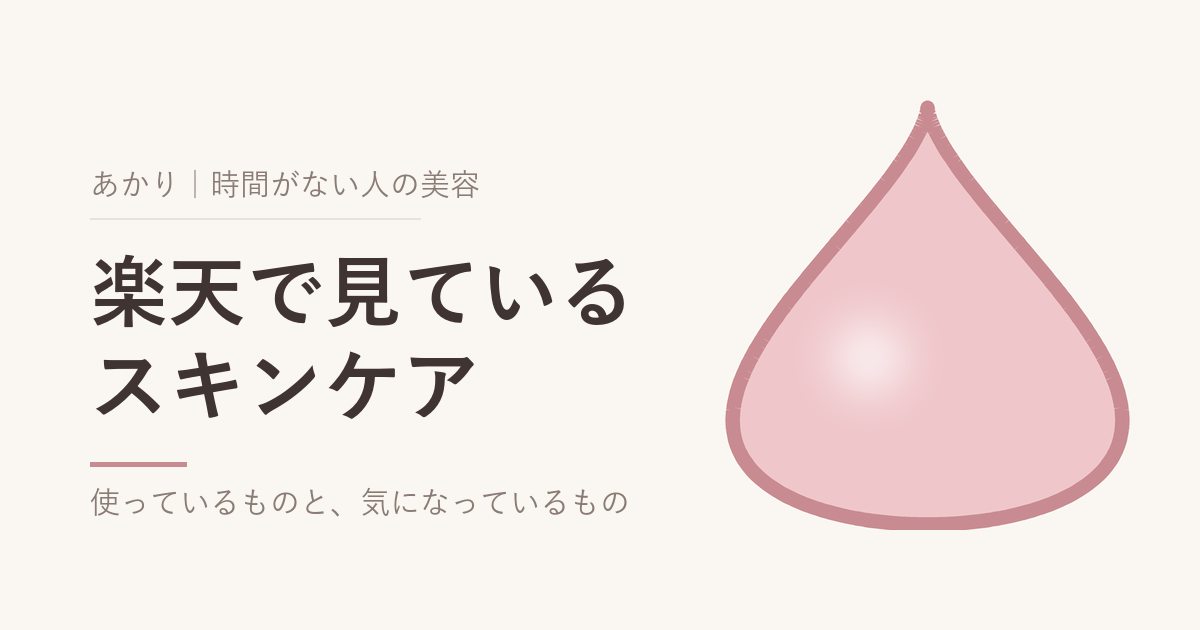
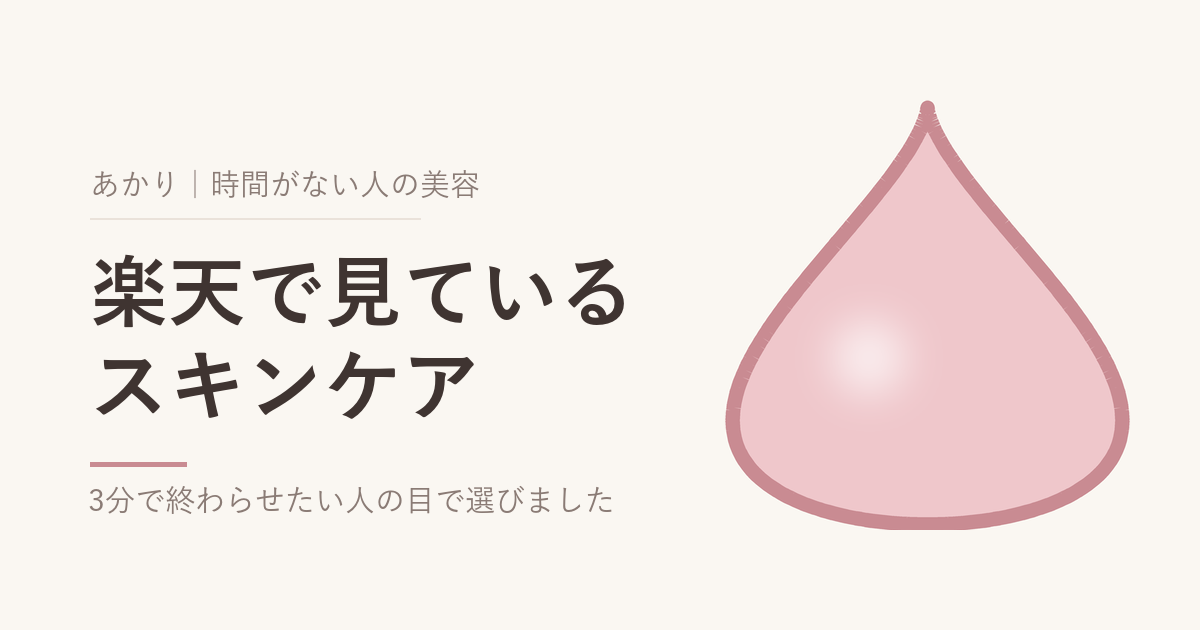
設計書v2に合わせてサイトを直す（使ってる/気になってるの区別を外す）
- 「使ってる」の印4件とリード文の一文を外した（本人決定）
- 商品コメント9か所を、商品ページの事実で書き直した
- 写真が決まりに合わない2件を落とした（17件→15件）
  - MJCARE: モデルの顔が大きく写っている
  - オルナ化粧水: 全4枚に「楽天ランキング第1位」「艶肌」などが焼き込み
- og.pngの「使っているものと、気になっているもの」を描き直し
- 100kin.htmlのROOM紹介文を21件に戻した（17件は誤り）
- レビュー件数4件と日付を11/21に更新

Changed region(s): [[0.0617, 0.754, 0.5242, 0.8143]]

diff --git a/index.html b/index.html
@@ -7,7 +7,7 @@
 <meta property="og:type" content="website">
 <meta property="og:site_name" content="楽天で見ているスキンケア">
 <meta property="og:title" content="楽天で見ているスキンケア">
-<meta property="og:description" content="3分で終わらせたい人の目で選びました。使っているものと、気になっているもの。楽天で見ている17件。">
+<meta property="og:description" content="3分で終わらせたい人の目で選びました。楽天で見ているスキンケア15件。">
 <meta property="og:url" content="https://akari-3min-care.github.io/care/">
 <meta property="og:image" content="https://akari-3min-care.github.io/care/og.png">
 <meta name="twitter:card" content="summary_large_image">
@@ -75,7 +75,7 @@ footer a{color:var(--muted)}
 <div class="hero">
   <div class="who">あかり｜時間がない人の美容</div>
   <h1>楽天で見ているスキンケア</h1>
-  <p class="lead">3分で終わらせたい人の目で選びました。<br><b>種類ごと</b>に分けて、それぞれ楽天市場のレビュー件数が多い順に並べています。<br><b>「使ってる」</b>と付いているのが、今わたしが手元に持っているものです。</p>
+  <p class="lead">3分で終わらせたい人の目で選びました。<br><b>種類ごと</b>に分けて、それぞれ楽天市場のレビュー件数が多い順に並べています。</p>
 
 </div>
 
@@ -98,9 +98,9 @@ footer a{color:var(--muted)}
     <div class="brand">ファンケル</div>
     <div class="name">マイルドクレンジング オイル（つめかえ用）</div>
     <p class="spec"><b>1,870円</b></p>
-    <p class="rev"><span class="star">★ 4.85</span><span>楽天のレビュー 13,657件</span></p>
+    <p class="rev"><span class="star">★ 4.85</span><span>楽天のレビュー 13,658件</span></p>
     <a class="go" href="https://hb.afl.rakuten.co.jp/hgc/g00sms5o.9mernb58.g00sms5o.9merod3a/?pc=https%3A%2F%2Fitem.rakuten.co.jp%2Ffancl-shop%2F3721-32%2F&m=http%3A%2F%2Fm.rakuten.co.jp%2Ffancl-shop%2Fi%2F10009421%2F&rafcid=wsc_i_is_d6ca3db3-7718-4ca9-9b12-793de0ae759e" rel="nofollow sponsored noopener" target="_blank">楽天市場で見る</a>
-    <p class="why">このページでレビューがいちばん多い商品です。つめかえ用なので、続けるならこの形が好きです</p>
+    <p class="why">このページでレビューがいちばん多い商品です。115mLでおよそ57回分、2プッシュが目安です</p>
   </div>
 </div>
 <div class="band">洗顔<span class="n">2</span></div>
@@ -110,9 +110,9 @@ footer a{color:var(--muted)}
     <div class="brand">ファンケル</div>
     <div class="name">洗顔パウダー</div>
     <p class="spec"><b>1,320円</b></p>
-    <p class="rev"><span class="star">★ 4.79</span><span>楽天のレビュー 2,938件</span></p>
+    <p class="rev"><span class="star">★ 4.79</span><span>楽天のレビュー 2,939件</span></p>
     <a class="go" href="https://hb.afl.rakuten.co.jp/hgc/g00sms5o.9mernb58.g00sms5o.9merod3a/?pc=https%3A%2F%2Fitem.rakuten.co.jp%2Ffancl-shop%2F3670-11%2F&m=http%3A%2F%2Fm.rakuten.co.jp%2Ffancl-shop%2Fi%2F10009026%2F&rafcid=wsc_i_is_d6ca3db3-7718-4ca9-9b12-793de0ae759e" rel="nofollow sponsored noopener" target="_blank">楽天市場で見る</a>
-    <p class="why">粉タイプ。泡立てネットは100均のを使っているので、合うのか気になっています</p>
+    <p class="why">ティースプーン1杯で、1本およそ60回分。泡立てネットは100均のを使っています</p>
   </div>
 </div>
 <div class="card">
@@ -121,23 +121,12 @@ footer a{color:var(--muted)}
     <div class="brand">アテニア</div>
     <div class="name">コンフォートムースウォッシュ</div>
     <p class="spec"><b>1,430円</b>　ボトル／つめかえ用</p>
-    <p class="rev"><span class="star">★ 4.59</span><span>楽天のレビュー 813件</span></p>
+    <p class="rev"><span class="star">★ 4.59</span><span>楽天のレビュー 814件</span></p>
     <a class="go" href="https://hb.afl.rakuten.co.jp/hgc/g00tna6o.9merne6c.g00tna6o.9mero3ea/?pc=https%3A%2F%2Fitem.rakuten.co.jp%2Fattenir%2F116228%2F&m=http%3A%2F%2Fm.rakuten.co.jp%2Fattenir%2Fi%2F10000615%2F&rafcid=wsc_i_is_d6ca3db3-7718-4ca9-9b12-793de0ae759e" rel="nofollow sponsored noopener" target="_blank">楽天市場で見る</a>
-    <p class="why">ワンプッシュで泡が出るタイプ。朝に合いそうだと思って見ています</p>
+    <p class="why">ワンプッシュで泡が出るタイプ。2〜3プッシュで1回分です。泡立てる時間がない朝に</p>
   </div>
 </div>
-<div class="band">化粧水<span class="n">3</span></div>
-<div class="card">
-  <img src="https://thumbnail.image.rakuten.co.jp/@0_mall/tsurunishi/cabinet/allna/14069354/905b01mtmmcmf_1.jpg?_ex=300x300" alt="保湿化粧水 200ml">
-  <div class="body">
-    <div class="brand">オルナ オーガニック</div>
-    <div class="name">保湿化粧水 200ml<span class="used">使ってる</span></div>
-    <p class="spec"><b>2,300円</b></p>
-    <p class="rev"><span class="star">★ 4.58</span><span>楽天のレビュー 1,948件</span></p>
-    <a class="go" href="https://hb.afl.rakuten.co.jp/hgc/g00t45po.9mern46a.g00t45po.9mero9eb/?pc=https%3A%2F%2Fitem.rakuten.co.jp%2Ftsurunishi%2F905b01mtmmcmf%2F&m=http%3A%2F%2Fm.rakuten.co.jp%2Ftsurunishi%2Fi%2F10000259%2F&rafcid=wsc_i_is_d6ca3db3-7718-4ca9-9b12-793de0ae759e" rel="nofollow sponsored noopener" target="_blank">楽天市場で見る</a>
-    <p class="why">しっとりとさっぱり、季節で入れ替えてる。冬はしっとりのほうを使っています</p>
-  </div>
-</div>
+<div class="band">化粧水<span class="n">2</span></div>
 <div class="card">
   <img src="https://thumbnail.image.rakuten.co.jp/@0_mall/attenir/cabinet/thum/157617_main_2606.jpg?_ex=300x300" alt="プリマモイスト ローション">
   <div class="body">
@@ -146,7 +135,7 @@ footer a{color:var(--muted)}
     <p class="spec"><b>2,255円</b>　ボトル／つめかえ</p>
     <p class="rev"><span class="star">★ 4.74</span><span>楽天のレビュー 1,674件</span></p>
     <a class="go" href="https://hb.afl.rakuten.co.jp/hgc/g00tna6o.9merne6c.g00tna6o.9mero3ea/?pc=https%3A%2F%2Fitem.rakuten.co.jp%2Fattenir%2F157617%2F&m=http%3A%2F%2Fm.rakuten.co.jp%2Fattenir%2Fi%2F10000239%2F&rafcid=wsc_i_is_d6ca3db3-7718-4ca9-9b12-793de0ae759e" rel="nofollow sponsored noopener" target="_blank">楽天市場で見る</a>
-    <p class="why">今のがなくなったら、つめかえがあるものに変えたいと思っていて</p>
+    <p class="why">2〜3プッシュで1回分。この値段はつめかえ用（140mL）のものです</p>
   </div>
 </div>
 <div class="card">
@@ -157,7 +146,7 @@ footer a{color:var(--muted)}
     <p class="spec"><b>1,540円</b></p>
     <p class="rev"><span class="star">★ 4.69</span><span>楽天のレビュー 953件</span></p>
     <a class="go" href="https://hb.afl.rakuten.co.jp/hgc/g00sms5o.9mernb58.g00sms5o.9merod3a/?pc=https%3A%2F%2Fitem.rakuten.co.jp%2Ffancl-shop%2F3742-31%2F&m=http%3A%2F%2Fm.rakuten.co.jp%2Ffancl-shop%2Fi%2F10009885%2F&rafcid=wsc_i_is_d6ca3db3-7718-4ca9-9b12-793de0ae759e" rel="nofollow sponsored noopener" target="_blank">楽天市場で見る</a>
-    <p class="why">開封後の使いきり期間が決まっているタイプ。ちゃんと使い切れるか、そこだけ迷っています</p>
+    <p class="why">30mLでおよそ30日分。100円玉1枚分が目安です。開封後は60日以内に使い切ります</p>
   </div>
 </div>
 <div class="band">乳液<span class="n">1</span></div>
@@ -169,7 +158,7 @@ footer a{color:var(--muted)}
     <p class="spec"><b>1,815円</b>　ボトル／つめかえ</p>
     <p class="rev"><span class="star">★ 4.69</span><span>楽天のレビュー 784件</span></p>
     <a class="go" href="https://hb.afl.rakuten.co.jp/hgc/g00tna6o.9merne6c.g00tna6o.9mero3ea/?pc=https%3A%2F%2Fitem.rakuten.co.jp%2Fattenir%2F157714%2F&m=http%3A%2F%2Fm.rakuten.co.jp%2Fattenir%2Fi%2F10000244%2F&rafcid=wsc_i_is_d6ca3db3-7718-4ca9-9b12-793de0ae759e" rel="nofollow sponsored noopener" target="_blank">楽天市場で見る</a>
-    <p class="why">日中用の乳液です。つめかえがあるのがいいなと思って見ています</p>
+    <p class="why">朝、化粧水のあとに2〜3プッシュ。日中用の乳液です。この値段はつめかえ用（50mL）のものです</p>
   </div>
 </div>
 <div class="band">オールインワン<span class="n">1</span></div>
@@ -177,23 +166,11 @@ footer a{color:var(--muted)}
   <div class="noimg">写真なし</div>
   <div class="body">
     <div class="brand">PICOMONTE</div>
-    <div class="name">オールインワンジェル 180g（ボタニカル）<span class="used">使ってる</span></div>
+    <div class="name">オールインワンジェル 180g（ボタニカル）</div>
     <p class="spec"><b>1,000円</b></p>
     <p class="rev"><span class="star">★ 4.35</span><span>楽天のレビュー 846件</span></p>
     <a class="go" href="https://hb.afl.rakuten.co.jp/hgc/g00r97bo.9mern6d0.g00r97bo.9mero959/?pc=https%3A%2F%2Fitem.rakuten.co.jp%2Fa-cueb%2Fbota-ag%2F&m=http%3A%2F%2Fm.rakuten.co.jp%2Fa-cueb%2Fi%2F10004890%2F&rafcid=wsc_i_is_d6ca3db3-7718-4ca9-9b12-793de0ae759e" rel="nofollow sponsored noopener" target="_blank">楽天市場で見る</a>
     <p class="why">スパチュラを探さなくていいだけで、朝がちがう。ポンプ式にしてから、だいぶ楽になりました</p>
-  </div>
-</div>
-<div class="band">シートマスク<span class="n">1</span></div>
-<div class="card">
-  <img src="https://thumbnail.image.rakuten.co.jp/@0_mall/apm24/cabinet/mjcare/mj_care_20_20sn.jpg?_ex=300x300" alt="エッセンスマスク お試し 20種20枚">
-  <div class="body">
-    <div class="brand">MJCARE</div>
-    <div class="name">エッセンスマスク お試し 20種20枚<span class="used">使ってる</span></div>
-    <p class="spec"><b>1,200円</b>　個包装</p>
-    <p class="rev"><span class="star">★ 4.58</span><span>楽天のレビュー 4,610件</span></p>
-    <a class="go" href="https://hb.afl.rakuten.co.jp/hgc/g00qecio.9mernb62.g00qecio.9mero81e/?pc=https%3A%2F%2Fitem.rakuten.co.jp%2Fapm24%2Fmjst40206n-22-set%2F&m=http%3A%2F%2Fm.rakuten.co.jp%2Fapm24%2Fi%2F10002137%2F&rafcid=wsc_i_is_d6ca3db3-7718-4ca9-9b12-793de0ae759e" rel="nofollow sponsored noopener" target="_blank">楽天市場で見る</a>
-    <p class="why">20種類入ってるから、その日の気分で選べる。選ぶのが面倒な日もあるので、そこは好みが分かれるかも</p>
   </div>
 </div>
 <div class="band">日やけ止め<span class="n">2</span></div>
@@ -203,9 +180,9 @@ footer a{color:var(--muted)}
     <div class="brand">アテニア</div>
     <div class="name">陽断UV50 ブライト&プロテクト クリーム</div>
     <p class="spec"><b>1,980円</b>　SPF50+・PA++++</p>
-    <p class="rev"><span class="star">★ 4.67</span><span>楽天のレビュー 1,086件</span></p>
+    <p class="rev"><span class="star">★ 4.67</span><span>楽天のレビュー 1,087件</span></p>
     <a class="go" href="https://hb.afl.rakuten.co.jp/hgc/g00tna6o.9merne6c.g00tna6o.9mero3ea/?pc=https%3A%2F%2Fitem.rakuten.co.jp%2Fattenir%2F165204%2F&m=http%3A%2F%2Fm.rakuten.co.jp%2Fattenir%2Fi%2F10000284%2F&rafcid=wsc_i_is_d6ca3db3-7718-4ca9-9b12-793de0ae759e" rel="nofollow sponsored noopener" target="_blank">楽天市場で見る</a>
-    <p class="why">1本5役と書いてあって、増やさなくていいのが気になっています</p>
+    <p class="why">朝のお手入れの最後に、パール粒大をひと塗り。40gでおよそ2か月半もちます</p>
   </div>
 </div>
 <div class="card">
@@ -216,7 +193,7 @@ footer a{color:var(--muted)}
     <p class="spec"><b>2,200円</b>　SPF34・PA+++</p>
     <p class="rev"><span class="star">★ 4.59</span><span>楽天のレビュー 183件</span></p>
     <a class="go" href="https://hb.afl.rakuten.co.jp/hgc/g00sms5o.9mernb58.g00sms5o.9merod3a/?pc=https%3A%2F%2Fitem.rakuten.co.jp%2Ffancl-shop%2Fsclasting%2F&m=http%3A%2F%2Fm.rakuten.co.jp%2Ffancl-shop%2Fi%2F10010310%2F&rafcid=wsc_i_is_d6ca3db3-7718-4ca9-9b12-793de0ae759e" rel="nofollow sponsored noopener" target="_blank">楽天市場で見る</a>
-    <p class="why">日やけ止めと化粧下地を兼ねるタイプ。冬は塗るのを忘れがちなので、下地と一緒なら続きそう</p>
+    <p class="why">SPF34・PA+++の化粧下地。日やけ止めのあとに重ねることもできます。2層式なので、よく振ってから</p>
   </div>
 </div>
 <div class="band">フェイスパウダー<span class="n">1</span></div>
@@ -224,7 +201,7 @@ footer a{color:var(--muted)}
   <img src="https://thumbnail.image.rakuten.co.jp/@0_mall/naturalcosmetic/cabinet/silkpowder-mk2.jpg?_ex=300x300" alt="シルク100% フェイスパウダー 7g">
   <div class="body">
     <div class="brand">シルクパウダー</div>
-    <div class="name">シルク100% フェイスパウダー 7g<span class="used">使ってる</span></div>
+    <div class="name">シルク100% フェイスパウダー 7g</div>
     <p class="spec"><b>935円</b></p>
     <p class="rev"><span class="star">★ 4.45</span><span>楽天のレビュー 1,569件</span></p>
     <a class="go" href="https://hb.afl.rakuten.co.jp/hgc/g00ps7eo.9mernea9.g00ps7eo.9mero577/?pc=https%3A%2F%2Fitem.rakuten.co.jp%2Fnaturalcosmetic%2Fsilkpowder20%2F&m=http%3A%2F%2Fm.rakuten.co.jp%2Fnaturalcosmetic%2Fi%2F10000961%2F&rafcid=wsc_i_is_d6ca3db3-7718-4ca9-9b12-793de0ae759e" rel="nofollow sponsored noopener" target="_blank">楽天市場で見る</a>
@@ -251,7 +228,7 @@ footer a{color:var(--muted)}
     <p class="spec"><b>1,320円</b></p>
     <p class="rev"><span class="star">★ 4.73</span><span>楽天のレビュー 339件</span></p>
     <a class="go" href="https://hb.afl.rakuten.co.jp/hgc/g00sms5o.9mernb58.g00sms5o.9merod3a/?pc=https%3A%2F%2Fitem.rakuten.co.jp%2Ffancl-shop%2F3091-01%2F&m=http%3A%2F%2Fm.rakuten.co.jp%2Ffancl-shop%2Fi%2F10000232%2F&rafcid=wsc_i_is_d6ca3db3-7718-4ca9-9b12-793de0ae759e" rel="nofollow sponsored noopener" target="_blank">楽天市場で見る</a>
-    <p class="why">リップ美容液という書かれ方をしていて、気になっています</p>
+    <p class="why">8gでおよそ80回分。小豆粒1個分が目安です。無香料です</p>
   </div>
 </div>
 <div class="card">
@@ -262,7 +239,7 @@ footer a{color:var(--muted)}
     <p class="spec"><b>1,100円</b>　4g・無色</p>
     <p class="rev"><span class="star">★ 4.62</span><span>楽天のレビュー 185件</span></p>
     <a class="go" href="https://hb.afl.rakuten.co.jp/hgc/g00u1gbo.9merndf2.g00u1gbo.9mero848/?pc=https%3A%2F%2Fitem.rakuten.co.jp%2Fhouseofrose-shop%2F44863%2F&m=http%3A%2F%2Fm.rakuten.co.jp%2Fhouseofrose-shop%2Fi%2F10000028%2F&rafcid=wsc_i_is_d6ca3db3-7718-4ca9-9b12-793de0ae759e" rel="nofollow sponsored noopener" target="_blank">楽天市場で見る</a>
-    <p class="why">スクラブと書いてあって、どんな感じなのか気になっています</p>
+    <p class="why">2〜3mmくり出して、唇をこすり合わせるだけ。洗い流さなくていいタイプです</p>
   </div>
 </div>
 <div class="card">
@@ -273,7 +250,7 @@ footer a{color:var(--muted)}
     <p class="spec"><b>1,540円</b></p>
     <p class="rev"><span class="star">★ 4.69</span><span>楽天のレビュー 135件</span></p>
     <a class="go" href="https://hb.afl.rakuten.co.jp/hgc/g00tna6o.9merne6c.g00tna6o.9mero3ea/?pc=https%3A%2F%2Fitem.rakuten.co.jp%2Fattenir%2F140604%2F&m=http%3A%2F%2Fm.rakuten.co.jp%2Fattenir%2Fi%2F10000357%2F&rafcid=wsc_i_is_d6ca3db3-7718-4ca9-9b12-793de0ae759e" rel="nofollow sponsored noopener" target="_blank">楽天市場で見る</a>
-    <p class="why">オイルタイプ。手持ちと使い分けられるのか、まだ分かっていません</p>
+    <p class="why">7.8gでおよそ2か月分。ヘラ型のスパチュラが付いています。ダマスクローズのほのかな香り</p>
   </div>
 </div>
 <div class="band">ハンドクリーム<span class="n">1</span></div>
@@ -285,7 +262,7 @@ footer a{color:var(--muted)}
     <p class="spec"><b>1,100円</b></p>
     <p class="rev"><span class="star">★ 4.7</span><span>楽天のレビュー 749件</span></p>
     <a class="go" href="https://hb.afl.rakuten.co.jp/hgc/g00t45po.9mern46a.g00t45po.9mero9eb/?pc=https%3A%2F%2Fitem.rakuten.co.jp%2Ftsurunishi%2F905b072wnfzkl%2F&m=http%3A%2F%2Fm.rakuten.co.jp%2Ftsurunishi%2Fi%2F10000265%2F&rafcid=wsc_i_is_d6ca3db3-7718-4ca9-9b12-793de0ae759e" rel="nofollow sponsored noopener" target="_blank">楽天市場で見る</a>
-    <p class="why">化粧水と同じところのもの。わたしが毎年買うのは千円いかないものなので、これは気になっている方です</p>
+    <p class="why">化粧水と同じところのもの。43gで、天然アロマの香りがついています</p>
   </div>
 </div>
 
@@ -293,14 +270,14 @@ footer a{color:var(--muted)}
     <p>※ このページには<b>楽天アフィリエイトのリンク</b>が含まれます。ここから購入されると、売上の一部が運営者に入ることがあります。</p>
     <p>※ 効き目や効果については書いていません。肌に合うかどうかは人によって違います。合わないときは使用をやめてください。</p>
     <p>※ 星の数とレビュー件数は<b>楽天市場のもの</b>です。<b>レビューの文章は載せていません。</b></p>
-    <p>※ 値段・星・件数は <b>2026年11月20日</b> に楽天市場で見たものです。変わることがあります。</p>
+    <p>※ 値段・星・件数は <b>2026年11月21日</b> に楽天市場で見たものです。変わることがあります。</p>
   </div>
 
 <footer>
   <p><b>どれを載せるか</b>は、わたしの基準（上の「どう選んだか」）で決めました。<b>並び順</b>は、種類ごとに楽天市場のレビュー件数が多い順です。<b>順位ではありません。</b></p>
   <p>テストや採点はしていません。星の数とレビュー件数は楽天市場の数字をそのまま書いたもので、<b>レビューの文章は引用していません</b>。</p>
   <p>化粧品は人によって合う合わないがあります。合わないときは使用をやめてください。</p>
-  <p>2026年11月20日 時点 ／ <a href="care.html">3分で終わるスキンケア（やり方のほう）</a> ／ <a href="100kin.html">ここは100均でいい</a></p>
+  <p>2026年11月21日 時点 ／ <a href="care.html">3分で終わるスキンケア（やり方のほう）</a> ／ <a href="100kin.html">ここは100均でいい</a></p>
 </footer>
 
 </div>

diff --git a/100kin.html b/100kin.html
@@ -325,7 +325,7 @@ footer li{margin-bottom:3px}
 
     <a class="card" href="https://room.rakuten.co.jp/room_5f3dddcd04/items" rel="nofollow sponsored noopener" target="_blank">
       <span class="t">楽天ROOM</span>
-      <span class="d">化粧水・乳液・クレンジング・日やけ止めなど21件。使っているものと、気になっているものを分けて置いています</span>
+      <span class="d">化粧水・乳液・クレンジング・日やけ止めなど21件。使う場面ごとに分けて置いています</span>
       <span class="go">楽天ROOMのページはここ →</span>
     </a>
 
